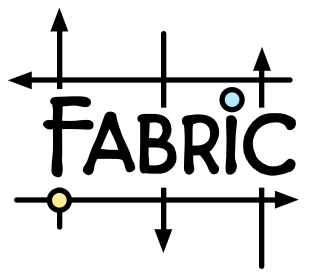
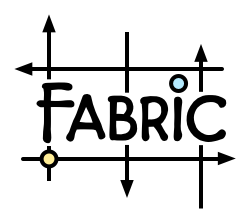
A little more playing with the title bar.

Changed region(s): [[0.0279, 0.0271, 0.9761, 1.0]]

diff --git a/web/style.css b/web/style.css
@@ -35,11 +35,6 @@ h3 {
   margin-bottom: 5px;
 }
 
-#fabric-logo {
-  height: 86px;
-  display: inline-block;
-}
-
 div.content {
   margin: 0 auto;
   min-width: 730px;
@@ -47,17 +42,20 @@ div.content {
 }
 
 div.top {
-  background-color: #48C;
-  background-image: url('images/fabric-logo2.png');
+  background: linear-gradient(left, white, blue);
+  background: -webkit-linear-gradient(left, white, #08f);
+  <!--
+  background-image: url('images/fabric-grid.png');
   background-repeat: no-repeat;
   background-position: 12px center;
-  background-size: auto 86px;
+  background-size: auto 150px;
+  -->
   text-shadow: #102010 2px 2px 2px;
   padding: 11px 0;
-  height: 86px;
   width: 100%;
   display: table;
 
+  color: blue;
   font-family: "Cronos Pro", "Trebuchet MS", "Lucida Sans", "Helvetica Neue",
     Helvetica, Arial, sans-serif;
   font-size: 15px;
@@ -65,17 +63,22 @@ div.top {
   vertical-align: bottom;
 }
 div#motto {
-    font-size: 180%;
+    width: 100%;
+    font-size: 200%;
     text-shadow: none;
-    color: white;
-    margin: 10px auto 5px 330px;
-    padding: 5px;
+    color: #08f;
+    font-weight: bold;
+    margin: 10px auto 5px 130px;
+    padding: 0 0 0 1em;
     vertical-align: middle;
-    line-height: 30px;
+    line-height: 40px;
+    display: table-cell;
 }
 
 div.top a { color: white; }
 div.top a:hover { color: #ffff80; }
+
+img#logo { height: 120px; display: table-cell; vertical-align: middle; margin: 0 auto 0 1em; }
 
 div.menu {
   display: table-cell;
@@ -83,6 +86,8 @@ div.menu {
   text-align: right;
   margin: 0 0 0 auto;
   padding: 0 12px;
+  font-size: 120%;
+  line-height: 25px;
 }
 
 div.menu > ul {

diff --git a/web/index.html b/web/index.html
@@ -8,9 +8,11 @@
 
   <body>
     <div class="top">
+        <img id="logo" src="images/fabric-grid.png">
         <div id="motto">
-            Strong Security<br>
-            Strong Consistency
+            strong security<br>
+            strong consistency<br>
+            open and decentralized
         </div>
         <div class="menu">
           <ul>
